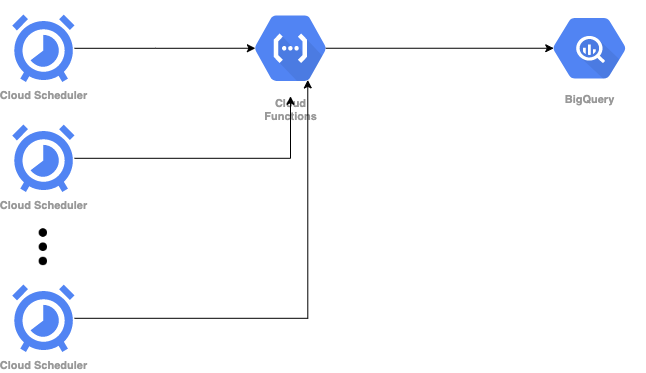
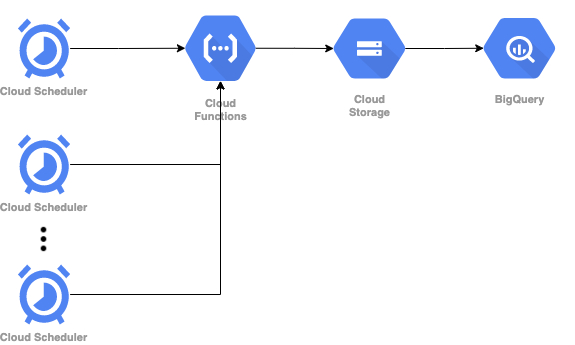
Fixed readme

diff --git a/README.md b/README.md
@@ -11,7 +11,7 @@ This project created to export time series data points from Google Cloud Monitor
 The GCP Metric Exporter project created to address the following points:
 
 * Data retention - Following the GCP Monitoring service [retention policy](https://cloud.google.com/monitoring/quotas#data_retention_policy), metrics data will be stored for a limited time, most of the GCP services metrics will retain for 6 weeks, and then will be deleted. 
-* Data analysis - Storing metric data in a BigQuery provide a better way to perform a complex analysis of GCP services over time using standard sql.
+* Data analysis - Storing metric data in a BigQuery provide a better way to perform a complex analysis of GCP services over time using Standard SQL.
 
 ### Architecture 
 
@@ -19,11 +19,11 @@ The Metric Exporter has 3 different GCP services:
 
 1) Cloud Scheduler - For each metric export we will create new cloud scheduler that contains the required information of the export job the message body and to manage the HTTP trigger.
 
-
 2) Cloud Function - This function is responsible for executing the export step using the information provided by the cloud scheduler and triggered by HTTP endpoint, and loading the data into the BigQuery.
 
+3) Cloud Storage - The cloud function will make the API call and split the response into different files (using the parameter PAGE_SIZE), and will store it on GCS for the load job into BQ.  
 
-3) BigQuery - Store the exported metrics data for future analysis (One table for each metric).
+4) BigQuery - Store the exported metrics data for future analysis (One table for each metric).
 
 
 ![alt text](images/Metric_Exporter_Architecture.png)
@@ -129,7 +129,7 @@ gcloud projects add-iam-policy-binding ${PROJECT_ID} \
 GCS:
 
 ```
-gsutil iam ch serviceAccount:metric-exporter-cf-sa@${PROKECT_ID}.iam.gserviceaccount.com:legacyBucketWriter gs://{BUCKET_NAME}
+gsutil iam ch serviceAccount:metric-exporter-cf-sa@${PROJECT_ID}.iam.gserviceaccount.com:legacyBucketWriter gs://${BUCKET_NAME}
 ```
 
 
@@ -188,6 +188,12 @@ Now we are all set for deploy.
 In order to deploy the Cloud Function and Schedule the first export please run the command:
 
 ```make full_deploy```
+
+When you get the following question:
+
+Allow unauthenticated invocations of new function [metric_exporter]?
+
+Please type "N" in order to prevent any unauthenticated invocation.
 
 In case that you already have a Cloud Function, and you want to deploy on new export, please run the following command to deploy new cloud scheduler:
 
